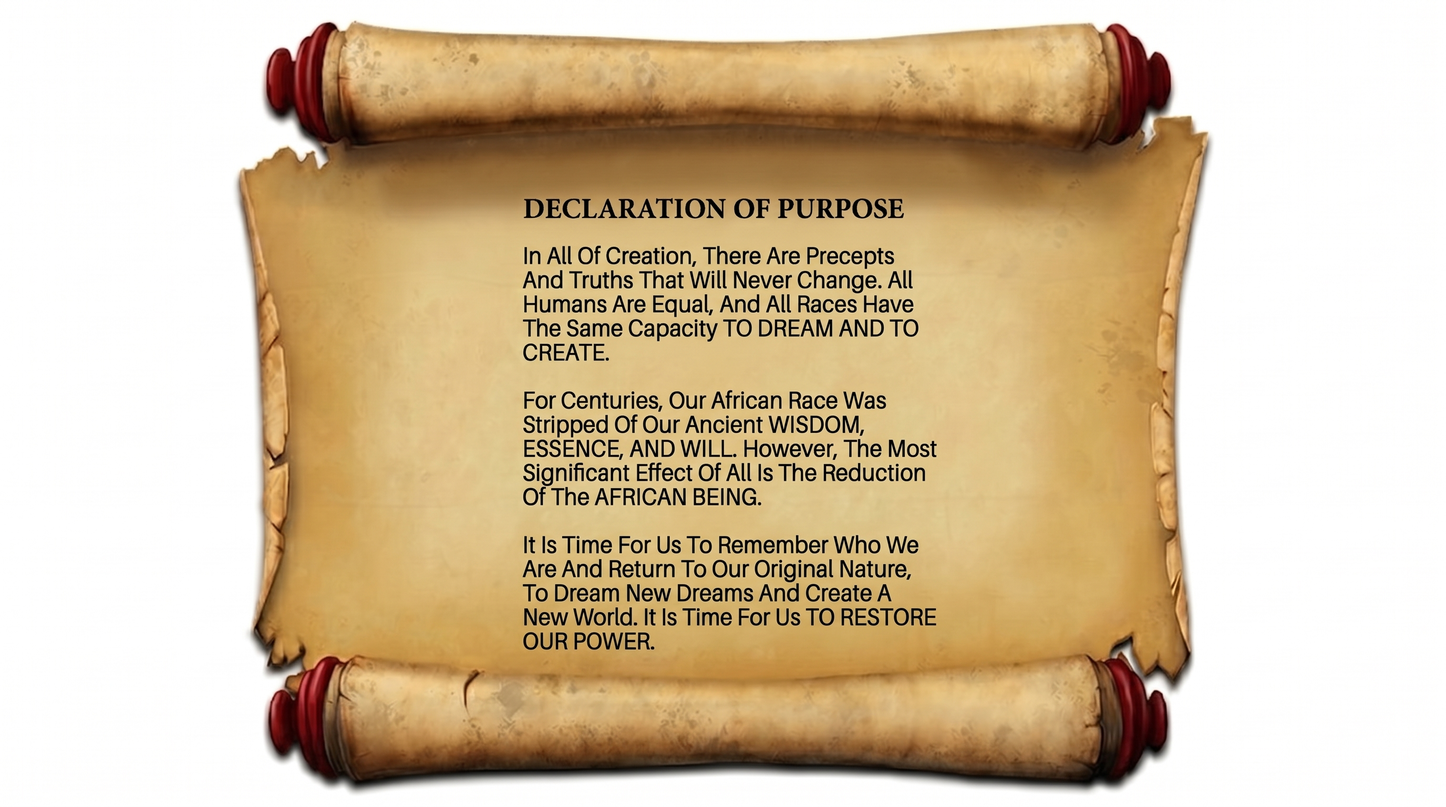
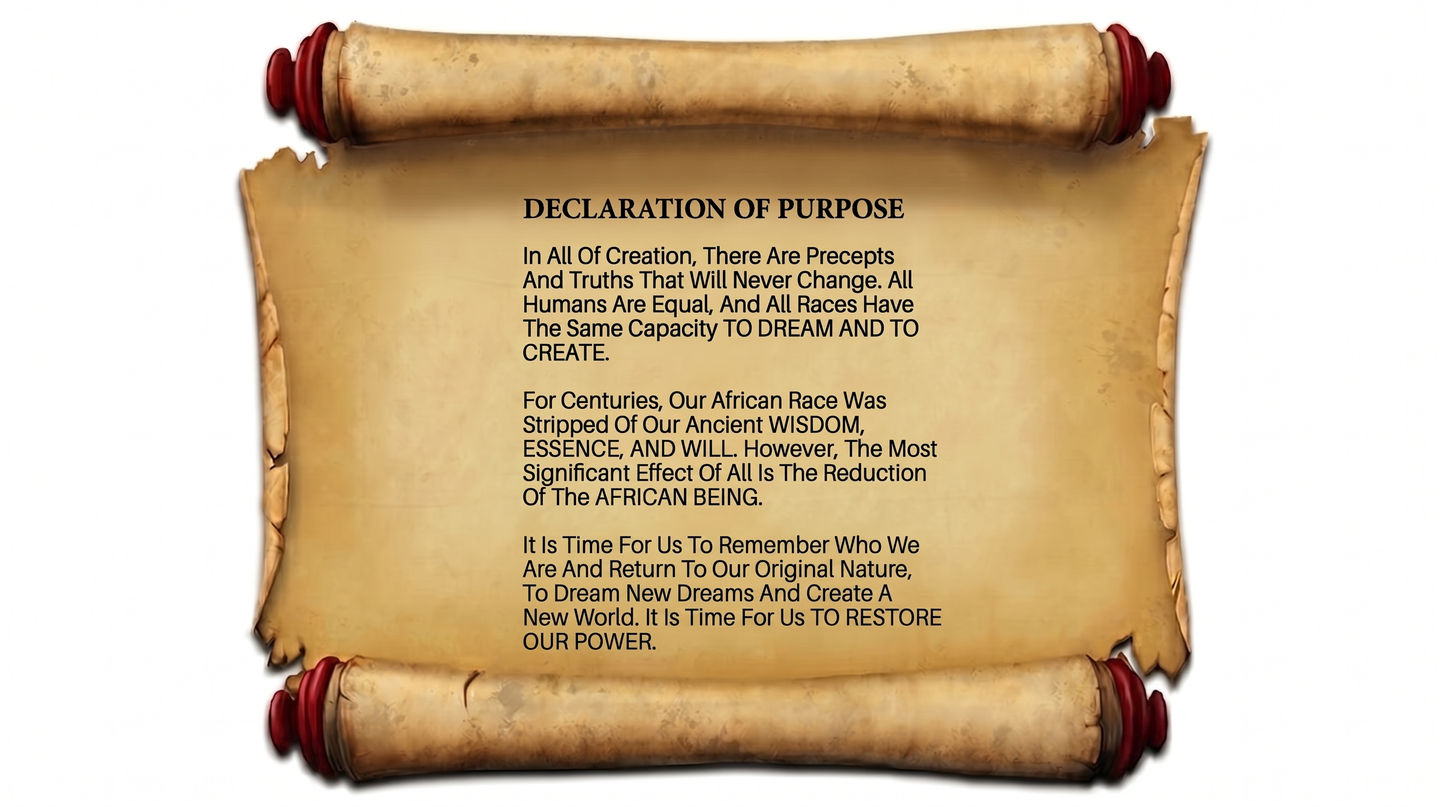
chore: replace declaration image with a new PNG for improved quality

Changed region(s): [[0.375, 0.6562, 0.6562, 0.8125], [0.375, 0.5312, 0.6562, 0.625]]

diff --git a/src/pages/HomePage.jsx b/src/pages/HomePage.jsx
@@ -3,7 +3,7 @@ import Navbar from '../components/Navbar';
 import NavSm from '../components/NavSm';
 import AppIntersection from '../components/AppIntersection';
 import Footer from '../components/Footer';
-import declarationImage from '../../assets/imgs/home/declaration.jpeg';
+import declarationImage from '../../assets/imgs/home/declaration.png';
 
 export default function HomePage() {
   return (
